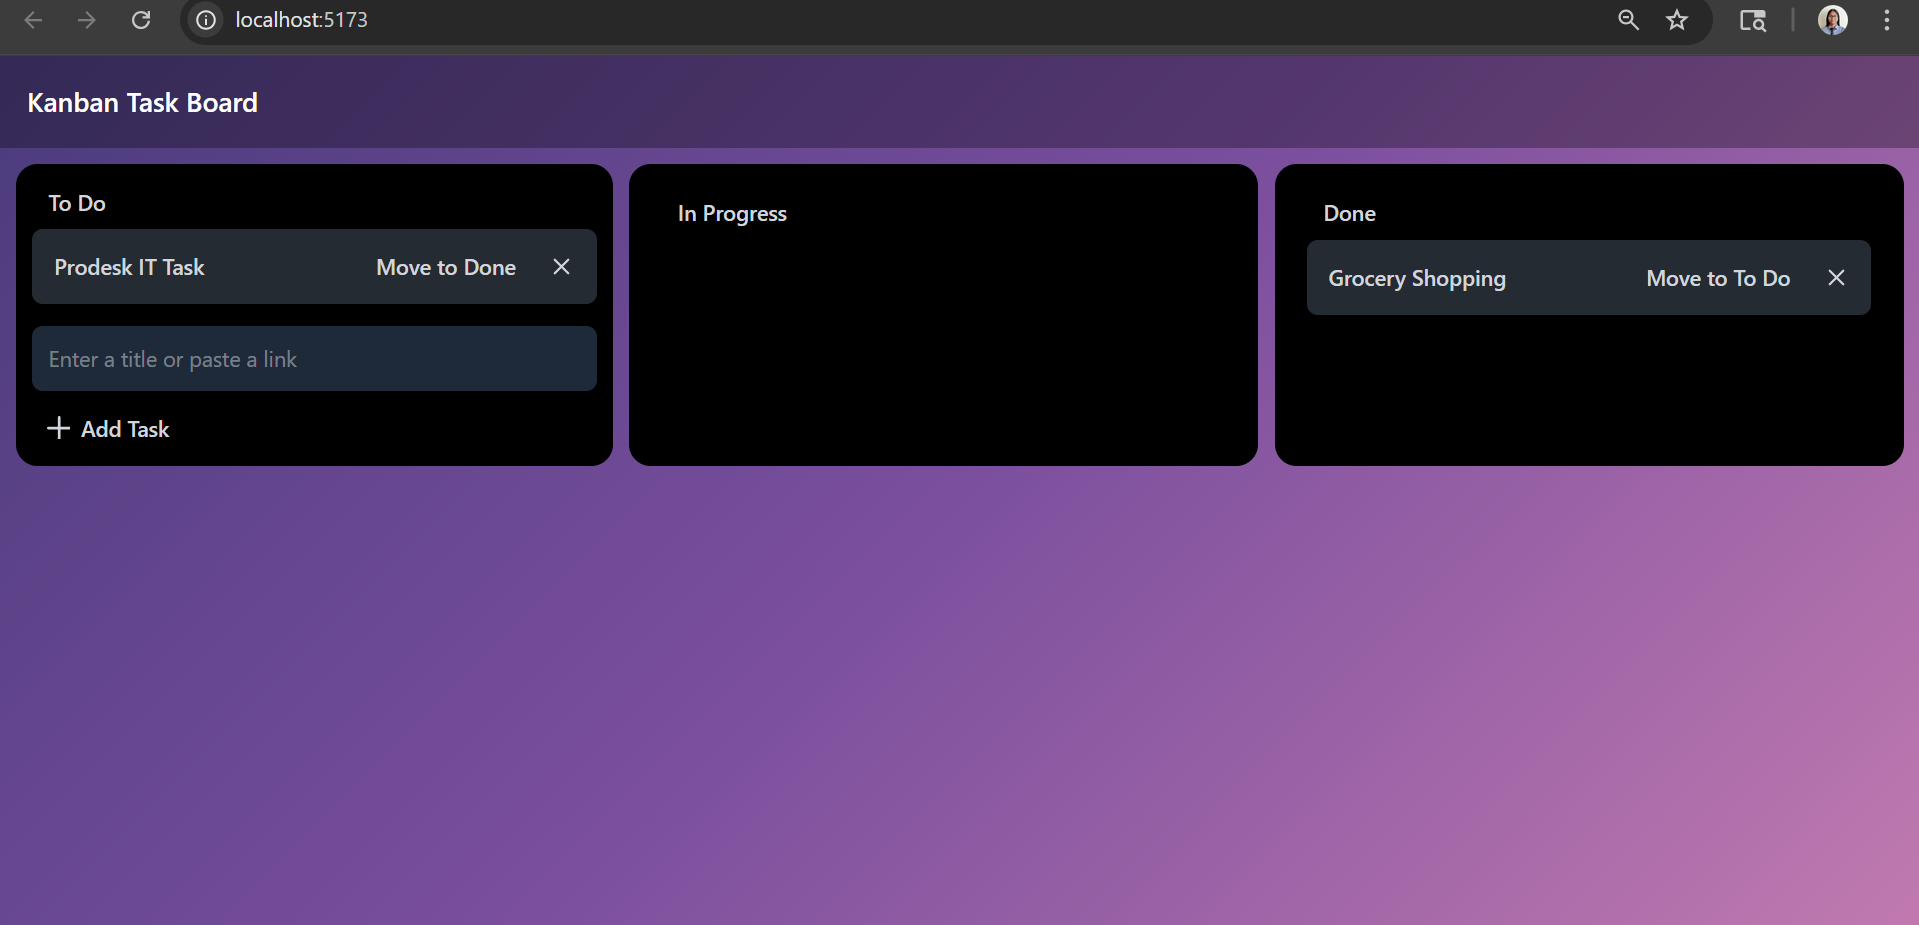
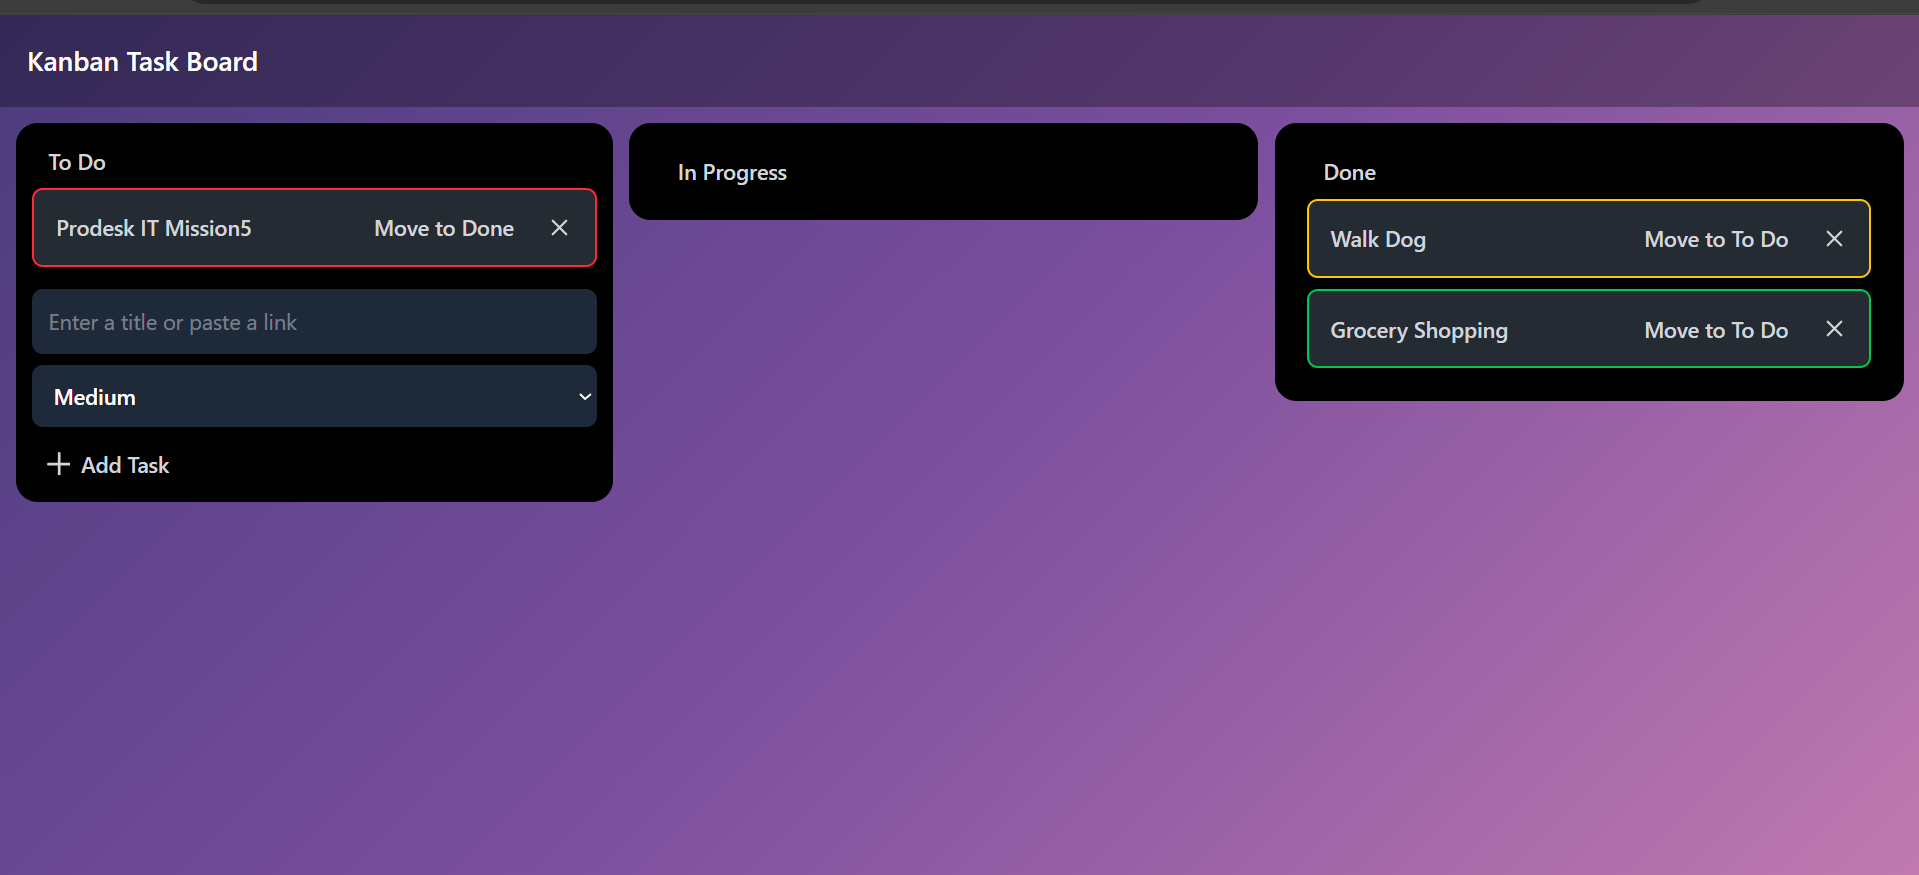
Prompts updated and level 2 complete

diff --git a/vite-project/src/App.jsx b/vite-project/src/App.jsx
@@ -1,4 +1,4 @@
-import { useState } from 'react'
+import { useState, useEffect } from 'react'
 import reactLogo from './assets/react.svg'
 import viteLogo from './assets/vite.svg'
 import heroImg from './assets/hero.png'
@@ -6,15 +6,27 @@ import './App.css'
 import Header from "./components/Header";
 
 function App() {
-  const [tasks, setTasks] = useState({ todo: [], done: [] });
+  const [tasks, setTasks] = useState(() => {
+    const saved = localStorage.getItem("tasks");
+    return saved ? JSON.parse(saved) : { todo: [], done: [] };
+  });
   const [inputValue, setInputValue] = useState("");
+  const [priority, setPriority] = useState("Medium");
+  const [editingTask, setEditingTask] = useState(null);
+  const [editValue, setEditValue] = useState("");
 
+  useEffect(() => {
+    localStorage.setItem("tasks", JSON.stringify(tasks));
+  }, [tasks]);
   // Add Task
   const addTask = () => {
     if (inputValue.trim() === "") return; // empty tasks
     setTasks((prev) => ({
       ...prev,
-      todo: [...prev.todo, { id: Date.now(), text: inputValue }],
+      todo: [
+        ...prev.todo,
+        { id: Date.now(), text: inputValue, priority }
+      ],
     }));
     setInputValue(""); // clear input after adding
   };
@@ -34,11 +46,33 @@ function App() {
       [from]: prev[from].filter((t) => t.id !== id),
       [to]: [...prev[to], task],
     }));
+
+    
+    //Edit Task
+    const startEditing = (task) => {
+      setEditingTask(task.id);
+      setEditValue(task.text);
+    };
+    //Save edited Task
+    const saveEdit = (id, column) => {
+      if (editValue.trim() === "") return;
+
+      setTasks((prev) => ({
+        ...prev,
+        [column]: prev[column].map((task) =>
+          task.id === id ? { ...task, text: editValue } : task
+        ),
+      }));
+
+      setEditingTask(null);
+      setEditValue("");
+    };
+
   };
   return (
     <div className=" flex-col bg-[linear-gradient(135deg,#4a3b7c,#7b4f9e,#c17ab0)] min-h-screen">
         <Header/>
-        <div className="flex justify-between gap-3 p-3 font-semibold text-gray-300">
+        <div className="flex justify-between items-start gap-3 p-3 font-semibold text-gray-300">
           {/* To Do Column */}
           <div className="flex-1 flex-col align-middle gap-3 rounded-2xl px-3 py-2 bg-black">
             <div className="px-3 py-2">
@@ -46,9 +80,31 @@ function App() {
             </div>
             {/* Render To Do Cards */}
             {tasks.todo.map((task) => (
-              <div key={task.id} className="flex items-center justify-between p-2 rounded-lg bg-gray-600/50 mb-2">
+              <div key={task.id} className={`flex items-center justify-between p-2 rounded-lg mb-2 
+                ${task.priority === "High"
+                  ? "border-2 border-red-500"
+                  : task.priority === "Medium"
+                  ? "border-2 border-yellow-400"
+                  : "border-2 border-green-500"
+                } bg-gray-600/50`}>
                 <div className="px-2">
-                  <p>{task.text}</p>
+                  {editingTask === task.id ? (
+                    <input
+                      value={editValue}
+                      onChange={(e) => setEditValue(e.target.value)}
+                      onBlur={() => saveEdit(task.id, "todo")}
+                      onKeyDown={(e) => e.key === "Enter" && saveEdit(task.id, "todo")}
+                      className="bg-gray-800 px-2 py-1 rounded text-white"
+                      autoFocus
+                    />
+                  ) : (
+                    <p
+                      onClick={() => startEditing(task)}
+                      className="cursor-pointer hover:underline"
+                    >
+                      {task.text}
+                    </p>
+                  )}
                 </div>
                 <div className="flex justify-between gap-2">
                   <button
@@ -76,6 +132,15 @@ function App() {
               onChange={(e) => setInputValue(e.target.value)}
               onKeyDown={(e) => e.key === "Enter" && addTask()} // add on Enter key too
             />
+            <select
+              value={priority}
+              onChange={(e) => setPriority(e.target.value)}
+              className="p-3 rounded-lg bg-gray-800 text-white w-full mt-2"
+            >
+              <option value="High">High</option>
+              <option value="Medium">Medium</option>
+              <option value="Low">Low</option>
+            </select>
             <button
               onClick={addTask}
               className="flex hover:bg-gray-600/50 hover:rounded-lg px-2 py-2 transition-all duration-300 gap-2 w-full mt-2">
@@ -98,9 +163,31 @@ function App() {
             </div>
             {/* Render Done Cards */}
             {tasks.done.map((task) => (
-              <div key={task.id} className="flex items-center justify-between p-2 rounded-lg bg-gray-600/50 mb-2">
+              <div key={task.id}  className={`flex items-center justify-between p-2 rounded-lg mb-2 
+                ${task.priority === "High"
+                  ? "border-2 border-red-500"
+                  : task.priority === "Medium"
+                  ? "border-2 border-yellow-400"
+                  : "border-2 border-green-500"
+                } bg-gray-600/50`}>
                 <div className="px-2">
-                  <p>{task.text}</p>
+                  {editingTask === task.id ? (
+                    <input
+                      value={editValue}
+                      onChange={(e) => setEditValue(e.target.value)}
+                      onBlur={() => saveEdit(task.id, "done")}
+                      onKeyDown={(e) => e.key === "Enter" && saveEdit(task.id, "done")}
+                      className="bg-gray-800 px-2 py-1 rounded text-white"
+                      autoFocus
+                    />
+                  ) : (
+                    <p
+                      onClick={() => startEditing(task)}
+                      className="cursor-pointer hover:underline"
+                    >
+                      {task.text}
+                    </p>
+                  )}
                 </div>
                 <div className="flex justify-between gap-2">
                   <button

diff --git a/prompts.md b/prompts.md
@@ -55,3 +55,17 @@ error: failed to push some refs to 'https://github.com/Pratishtha103/Mission5-Pr
 "Why do we need two fields for moving a task"
 
 "Can filter be used in Delete button logic"
+
+"why does my other feild's height increase with add task and to do div"
+
+"how to handle priority logic in task"
+
+"How to add this logic Editing: Click on a task text to turn it into an input field, edit it, and save."
+
+"How to clear localStorage"
+
+"Is localStorage safe"
+
+"How to save task to localStorage"
+
+"How to fetch from localStorage"
